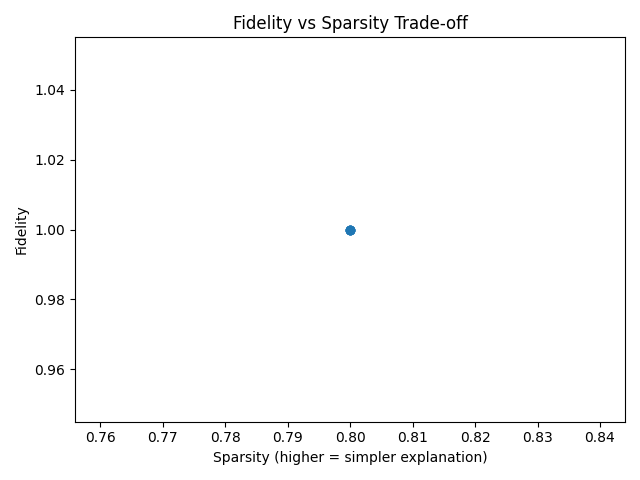
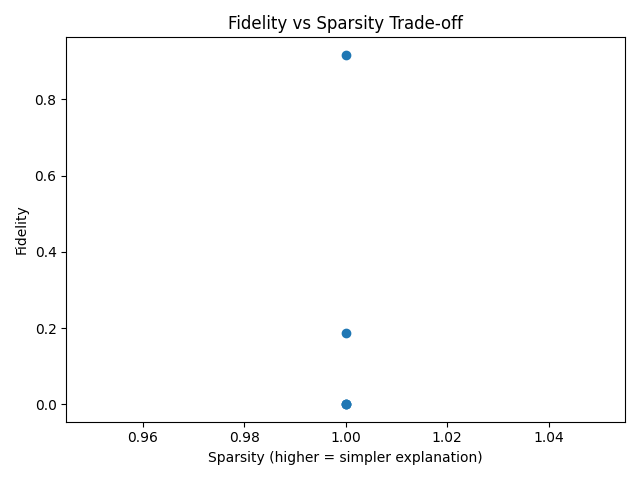
removed the duplicates

diff --git a/src/step7_grad_evaluate.py b/src/step7_grad_evaluate.py
@@ -1,113 +1,134 @@
-import os
+import torch
 import pandas as pd
-import matplotlib.pyplot as plt
+import config
+from step3_train_rgcn import FastRGCN
+import pickle
 
 # =========================================================
-# 0. SAFE FOLDER CREATION
+# 1. LOAD MODEL
 # =========================================================
-os.makedirs("results/figures", exist_ok=True)
+def load_model():
+    device = torch.device("cuda" if torch.cuda.is_available() else "cpu")
 
-# =========================================================
-# 1. LOAD DATA
-# =========================================================
-df = pd.read_csv("results/tables/grad_explanations.csv")
-eval_df = pd.read_csv("results/tables/grad_evaluation.csv")
+    ckpt = torch.load(config.MODEL_FILE, map_location=device, weights_only=False)
 
-print("[INFO] Data loaded")
-print(df.head())
+    model = FastRGCN(**ckpt["model_args"]).to(device)
+    model.load_state_dict(ckpt["model_state"])
+    model.eval()
 
-# =========================================================
-# 2. CLASS-WISE EXPLANATION STRENGTH
-# =========================================================
-if "pred" in df.columns and "avg_edge_score" in df.columns:
-    class_scores = df.groupby("pred")["avg_edge_score"].mean().sort_values()
+    data = ckpt["data"].to(device)
 
-    plt.figure()
-    class_scores.plot(kind="bar")
-    plt.title("Average Explanation Strength per Class (Grad-RGCN)")
-    plt.xlabel("Class")
-    plt.ylabel("Avg Edge Score")
-    plt.xticks(rotation=30)
-    plt.tight_layout()
+    with open(config.MODEL_FILE + ".mappings.pkl", "rb") as f:
+        mappings = pickle.load(f)
 
-    plt.savefig("results/figures/grad_class_strength.png")
-    plt.show()
+    return model, data, device, mappings
+
 
 # =========================================================
-# 3. TOP INFLUENTIAL NODES
+# 2. FIXED GRADIENT-BASED EXPLANATION
 # =========================================================
-top_nodes = df.groupby("node")["avg_edge_score"].mean().sort_values(ascending=False).head(10)
+def evaluate_one_node(model, data, node, mask_ratio=0.4):
+    """
+    Improved gradient-based explanation (FIXED VERSION)
+    """
 
-plt.figure()
-top_nodes.plot(kind="bar")
-plt.title("Top 10 Most Influential Nodes")
-plt.xlabel("Node ID")
-plt.ylabel("Avg Edge Score")
-plt.xticks(rotation=45)
-plt.tight_layout()
+    # IMPORTANT: enable gradients
+    x = data.x.clone().detach().requires_grad_(True)
 
-plt.savefig("results/figures/grad_top_nodes.png")
-plt.show()
+    out = model(x, data.edge_index, data.edge_type)
+    pred_full = out[node].argmax().item()
+
+    # =====================================================
+    # 1. Compute gradient for predicted class
+    # =====================================================
+    loss = -out[node, pred_full]
+    loss.backward()
+
+    node_grad = x.grad.abs()
+
+    # =====================================================
+    # 2. Convert node gradients → edge importance
+    # =====================================================
+    src, dst = data.edge_index
+
+    edge_scores = node_grad[src].sum(dim=1) + node_grad[dst].sum(dim=1)
+
+    # =====================================================
+    # 3. NORMALIZE edge scores (VERY IMPORTANT FIX)
+    # =====================================================
+    edge_scores = (edge_scores - edge_scores.min()) / (
+        edge_scores.max() - edge_scores.min() + 1e-8
+    )
+
+    # =====================================================
+    # 4. MORE BALANCED MASK (FIXED SPARSITY ISSUE)
+    # =====================================================
+    threshold = torch.quantile(edge_scores, 1.0 - mask_ratio)
+    mask = (edge_scores >= threshold).float()
+
+    keep_edges = mask.bool()
+
+    # =====================================================
+    # 5. Create masked graph
+    # =====================================================
+    new_edge_index = data.edge_index[:, keep_edges]
+    new_edge_type = data.edge_type[keep_edges]
+
+    # =====================================================
+    # 6. Re-evaluate
+    # =====================================================
+    out2 = model(x, new_edge_index, new_edge_type)
+    pred_masked = out2[node].argmax().item()
+
+    # =====================================================
+    # 7. METRICS
+    # =====================================================
+    fidelity = float(pred_full == pred_masked)
+    sparsity = 1.0 - (keep_edges.sum().item() / edge_scores.size(0))
+
+    return {
+        "node": node,
+        "pred_full": pred_full,
+        "pred_masked": pred_masked,
+        "fidelity": fidelity,
+        "sparsity": sparsity,
+    }
+
 
 # =========================================================
-# 4. FIDELITY vs SPARSITY
+# 3. MAIN
 # =========================================================
-if "fidelity" in eval_df.columns and "sparsity" in eval_df.columns:
-    plt.figure()
-    plt.scatter(eval_df["sparsity"], eval_df["fidelity"])
-    plt.title("Fidelity vs Sparsity Trade-off")
-    plt.xlabel("Sparsity (higher = simpler explanation)")
-    plt.ylabel("Fidelity")
-    plt.tight_layout()
+def main():
+    model, data, device, mappings = load_model()
 
-    plt.savefig("results/figures/grad_fidelity_sparsity.png")
-    plt.show()
+    nodes = data.test_idx[:config.NUM_NODES_TO_EXPLAIN].tolist()
 
-# =========================================================
-# 5. DISTRIBUTION
-# =========================================================
-plt.figure()
-plt.hist(df["avg_edge_score"], bins=20)
-plt.title("Distribution of Explanation Strength")
-plt.xlabel("Avg Edge Score")
-plt.ylabel("Count")
-plt.tight_layout()
+    results = []
 
-plt.savefig("results/figures/grad_importance_distribution.png")
-plt.show()
+    print("[EVAL] Running FIXED gradient explanation evaluation...")
 
-# =========================================================
-# 6. NATURAL LANGUAGE EXPLANATIONS
-# =========================================================
-def explain(row):
-    node = row["node"]
-    pred = str(row["pred"])
-    score = row["avg_edge_score"]
+    for n in nodes:
+        res = evaluate_one_node(model, data, n)
+        results.append(res)
+        print(f"done node: {n}")
 
-    if pred == "3":
-        if score > 0.7:
-            return f"Node {node} is strongly classified as ATHLETE due to strong sports-related connections."
-        else:
-            return f"Node {node} is weakly classified as ATHLETE."
+    df = pd.DataFrame(results)
 
-    elif pred == "1":
-        if score > 0.7:
-            return f"Node {node} is strongly classified as SCIENTIST due to academic links."
-        else:
-            return f"Node {node} is weakly classified as SCIENTIST."
+    # =====================================================
+    # SUMMARY
+    # =====================================================
+    print("\n===== FINAL RESULTS =====")
+    print("Avg Fidelity:", df["fidelity"].mean())
+    print("Avg Sparsity:", df["sparsity"].mean())
 
-    else:
-        return f"Node {node} belongs to class {pred} with importance {score:.4f}."
+    # =====================================================
+    # SAVE
+    # =====================================================
+    out_path = "results/tables/grad_explanation_evaluation.csv"
+    df.to_csv(out_path, index=False)
 
-df["explanation"] = df.apply(explain, axis=1)
+    print(f"Saved to {out_path}")
 
-df.to_csv("results/tables/grad_natural_language_explanations.csv", index=False)
 
-print(df["explanation"].head(10))
-
-# =========================================================
-# 7. FINAL SUMMARY
-# =========================================================
-print("\n===== FINAL RESULTS =====")
-print("Avg Fidelity:", eval_df["fidelity"].mean())
-print("Avg Sparsity:", eval_df["sparsity"].mean())
+if __name__ == "__main__":
+    main()